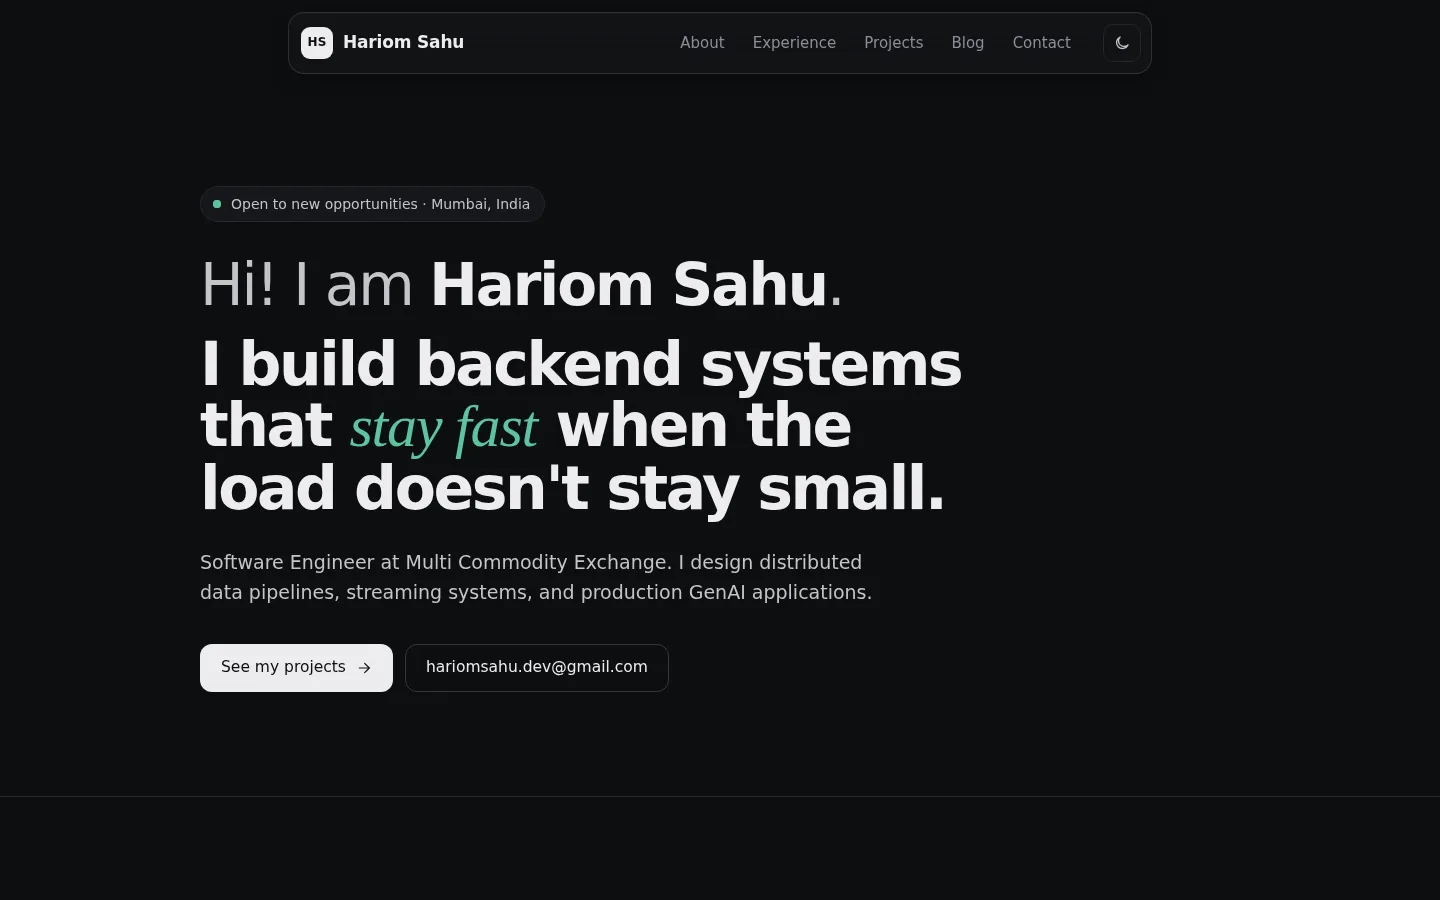
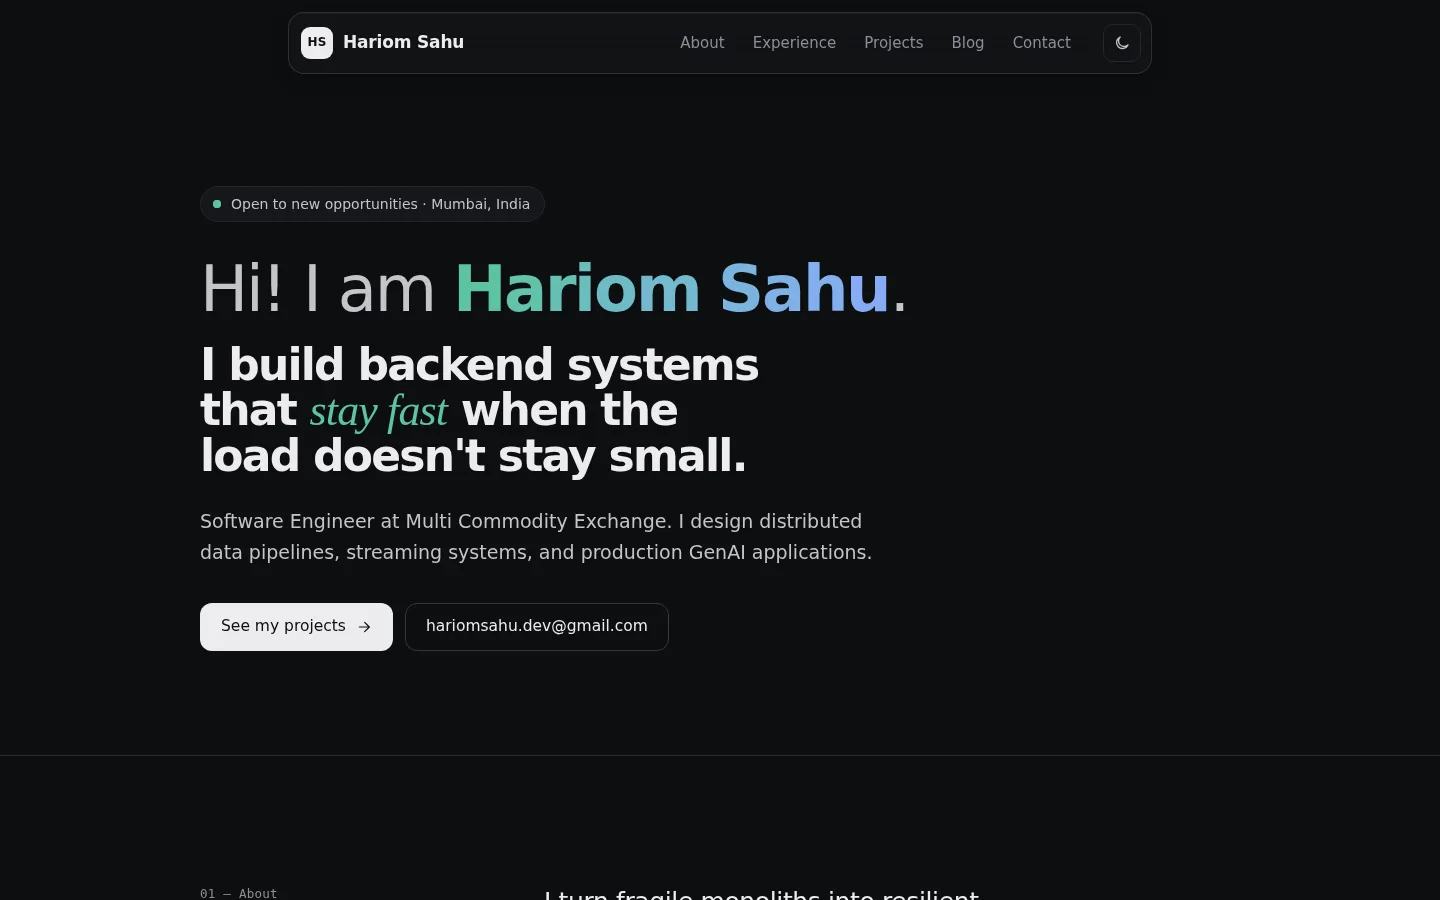
feat: coloured name with hover wave, cursor arrow trail, smaller headline

diff --git a/assets/js/site.js b/assets/js/site.js
@@ -359,6 +359,121 @@
   }
 
   /* ------------------------------------------------------------------ *
+   * Hero name: split into letters so each one can hop on hover
+   * ------------------------------------------------------------------ */
+  var heroName = $("#hero-name");
+  if (heroName) {
+    var text = heroName.textContent;
+    heroName.setAttribute("aria-label", text);
+    heroName.innerHTML = text.split("").map(function (c, i) {
+      return '<span class="ch' + (c === " " ? " sp" : "") + '" style="--i:' + i + '" aria-hidden="true">' + (c === " " ? "&nbsp;" : esc(c)) + "</span>";
+    }).join("");
+    // Tap on touch screens plays the same animation once.
+    heroName.addEventListener("click", function () {
+      heroName.classList.remove("is-playing");
+      void heroName.offsetWidth;
+      heroName.classList.add("is-playing");
+      setTimeout(function () { heroName.classList.remove("is-playing"); }, 1400);
+    });
+  }
+
+  /* ------------------------------------------------------------------ *
+   * Cursor trail: a light, curvy arrow that follows the mouse
+   * Desktop only (fine pointer); off when reduced motion is requested.
+   * ------------------------------------------------------------------ */
+  (function cursorTrail() {
+    if (reduceMotion || !window.matchMedia("(pointer: fine)").matches) return;
+
+    var canvas = doc.createElement("canvas");
+    canvas.className = "cursor-trail";
+    canvas.setAttribute("aria-hidden", "true");
+    body.appendChild(canvas);
+    var ctx = canvas.getContext("2d");
+    var dpr = 1, W = 0, H = 0;
+
+    function resize() {
+      dpr = Math.min(window.devicePixelRatio || 1, 2);
+      W = window.innerWidth; H = window.innerHeight;
+      canvas.width = W * dpr; canvas.height = H * dpr;
+      ctx.setTransform(dpr, 0, 0, dpr, 0, 0);
+    }
+    resize();
+    window.addEventListener("resize", resize);
+
+    var LIFE = 420;          // ms a point stays in the tail
+    var pts = [];            // {x, y, t}
+    var running = false;
+    var color = "#166a55";
+    var lastColorRead = 0;
+
+    function readColor(now) {
+      if (now - lastColorRead < 500) return;
+      lastColorRead = now;
+      color = getComputedStyle(root).getPropertyValue("--accent").trim() || color;
+    }
+
+    doc.addEventListener("pointermove", function (e) {
+      if (e.pointerType && e.pointerType !== "mouse") return;
+      var now = performance.now();
+      var last = pts[pts.length - 1];
+      if (!last || Math.abs(last.x - e.clientX) + Math.abs(last.y - e.clientY) > 2) {
+        pts.push({ x: e.clientX, y: e.clientY, t: now });
+      }
+      if (!running) { running = true; requestAnimationFrame(draw); }
+    }, { passive: true });
+
+    doc.addEventListener("pointerleave", function () { pts.length = 0; });
+
+    function draw(now) {
+      while (pts.length && now - pts[0].t > LIFE) pts.shift();
+      ctx.clearRect(0, 0, W, H);
+
+      if (pts.length < 3) {
+        if (!pts.length) { running = false; return; }
+        requestAnimationFrame(draw);
+        return;
+      }
+
+      readColor(now);
+      ctx.strokeStyle = color;
+      ctx.lineCap = "round";
+      ctx.lineJoin = "round";
+
+      // Smooth curve through midpoints; tail fades in and thickens toward the head.
+      var n = pts.length;
+      for (var i = 1; i < n - 1; i++) {
+        var p0 = pts[i - 1], p1 = pts[i], p2 = pts[i + 1];
+        var k = i / (n - 1);
+        var age = 1 - (now - p1.t) / LIFE;
+        ctx.globalAlpha = Math.max(0, 0.55 * k * age);
+        ctx.lineWidth = 0.6 + 1.9 * k;
+        ctx.beginPath();
+        ctx.moveTo((p0.x + p1.x) / 2, (p0.y + p1.y) / 2);
+        ctx.quadraticCurveTo(p1.x, p1.y, (p1.x + p2.x) / 2, (p1.y + p2.y) / 2);
+        ctx.stroke();
+      }
+
+      // Arrowhead at the newest point, pointing along the direction of travel.
+      var head = pts[n - 1], ref = pts[Math.max(0, n - 4)];
+      var dx = head.x - ref.x, dy = head.y - ref.y;
+      var dist = Math.sqrt(dx * dx + dy * dy);
+      var fresh = 1 - (now - head.t) / LIFE;
+      if (dist > 4 && fresh > 0) {
+        var a = Math.atan2(dy, dx), size = 9, spread = 0.5;
+        ctx.globalAlpha = 0.7 * fresh;
+        ctx.lineWidth = 2;
+        ctx.beginPath();
+        ctx.moveTo(head.x - size * Math.cos(a - spread), head.y - size * Math.sin(a - spread));
+        ctx.lineTo(head.x, head.y);
+        ctx.lineTo(head.x - size * Math.cos(a + spread), head.y - size * Math.sin(a + spread));
+        ctx.stroke();
+      }
+      ctx.globalAlpha = 1;
+      requestAnimationFrame(draw);
+    }
+  })();
+
+  /* ------------------------------------------------------------------ *
    * Pages
    * ------------------------------------------------------------------ */
   var pages = {

diff --git a/assets/css/styles.css b/assets/css/styles.css
@@ -15,6 +15,7 @@
   --accent: #166a55;
   --accent-ink: #ffffff;
   --accent-soft: #e3efe9;
+  --accent-2: #2f5fd0;
   --shadow: 0 1px 2px rgba(20, 21, 23, 0.04), 0 8px 24px -12px rgba(20, 21, 23, 0.12);
 
   --font-sans: "Inter", ui-sans-serif, system-ui, -apple-system, "Segoe UI", sans-serif;
@@ -40,6 +41,7 @@
   --accent: #5cc4a2;
   --accent-ink: #07130f;
   --accent-soft: #143028;
+  --accent-2: #8aa8ff;
   --shadow: 0 1px 2px rgba(0, 0, 0, 0.3), 0 12px 32px -16px rgba(0, 0, 0, 0.6);
   color-scheme: dark;
 }
@@ -56,6 +58,7 @@
     --accent: #5cc4a2;
     --accent-ink: #07130f;
     --accent-soft: #143028;
+  --accent-2: #8aa8ff;
     --shadow: 0 1px 2px rgba(0, 0, 0, 0.3), 0 12px 32px -16px rgba(0, 0, 0, 0.6);
     color-scheme: dark;
   }
@@ -325,18 +328,44 @@ svg { width: 1em; height: 1em; fill: none; stroke: currentColor; stroke-width: 1
 
 .hero-hello {
   margin-top: 32px;
-  font-size: clamp(34px, 4.4vw, 58px);
+  font-size: clamp(36px, 4.8vw, 64px);
   font-weight: 400;
   letter-spacing: -0.035em;
   line-height: 1.1;
   color: var(--ink-2);
 }
-.hero-hello strong { font-weight: 700; color: var(--ink); }
+
+/* Name: green → blue colour run, letters hop on hover */
+.name {
+  display: inline-block;
+  font-weight: 700;
+  color: var(--accent);
+  cursor: default;
+  white-space: nowrap;
+}
+.name .ch {
+  display: inline-block;
+  color: color-mix(in oklab, var(--accent-2) calc(var(--i) * 9%), var(--accent));
+  transform-origin: 50% 80%;
+  will-change: transform;
+}
+.name .ch.sp { width: 0.28em; }
+.name:hover .ch,
+.name.is-playing .ch {
+  animation: name-hop 0.7s cubic-bezier(0.3, 1.6, 0.5, 1) both;
+  animation-delay: calc(var(--i) * 45ms);
+}
+@keyframes name-hop {
+  0%   { transform: translateY(0) rotate(0); }
+  35%  { transform: translateY(-0.22em) rotate(-6deg) scale(1.08); }
+  65%  { transform: translateY(0.04em) rotate(3deg); }
+  100% { transform: translateY(0) rotate(0); }
+}
 
 .hero-title {
-  margin-top: 16px;
-  max-width: 20ch;
-  font-size: clamp(30px, 4.6vw, 60px);
+  margin-top: 18px;
+  max-width: 24ch;
+  font-size: clamp(26px, 3.4vw, 44px);
   font-weight: 600;
   letter-spacing: -0.04em;
   line-height: 1.02;
@@ -1052,3 +1081,13 @@ svg { width: 1em; height: 1em; fill: none; stroke: currentColor; stroke-width: 1
 }
 
 .emoji { font-style: normal; margin-left: 2px; }
+
+/* Cursor trail canvas */
+.cursor-trail {
+  position: fixed;
+  inset: 0;
+  width: 100%;
+  height: 100%;
+  pointer-events: none;
+  z-index: 45;
+}

diff --git a/index.html b/index.html
@@ -50,7 +50,7 @@
     <section class="hero">
       <div class="container">
         <p class="status reveal"><span class="dot" aria-hidden="true"></span>Open to new opportunities · Mumbai, India</p>
-        <p class="hero-hello reveal">Hi! I am <strong>Hariom Sahu</strong>.</p>
+        <p class="hero-hello reveal">Hi! I am <strong class="name" id="hero-name">Hariom Sahu</strong>.</p>
         <h1 class="hero-title reveal">I build backend systems that <em>stay fast</em> when the load doesn't stay small.</h1>
         <p class="hero-lede reveal">
           Software Engineer at Multi Commodity Exchange. I design distributed data pipelines, streaming systems,

diff --git a/README.md b/README.md
@@ -58,7 +58,7 @@ The site has three pages: **Home**, **Projects** and **Blog**. The header on eve
 
 [Open ↗](https://harry9321.github.io/New_Portfolio/)
 
-The first screen opens with **"Hi! I am Hariom Sahu."**, says what I do in one line, shows my availability, and gives two actions: **See my projects** and email me. The menu bar floats centred at the top of every page.
+The first screen opens with **"Hi! I am Hariom Sahu."** (hover over the name and the letters wave), says what I do in one line, shows my availability, and gives two actions: **See my projects** and email me. The menu bar floats centred at the top of every page, and on desktop a light curved arrow follows your cursor.
 
 ### 2. About: how I work
 
